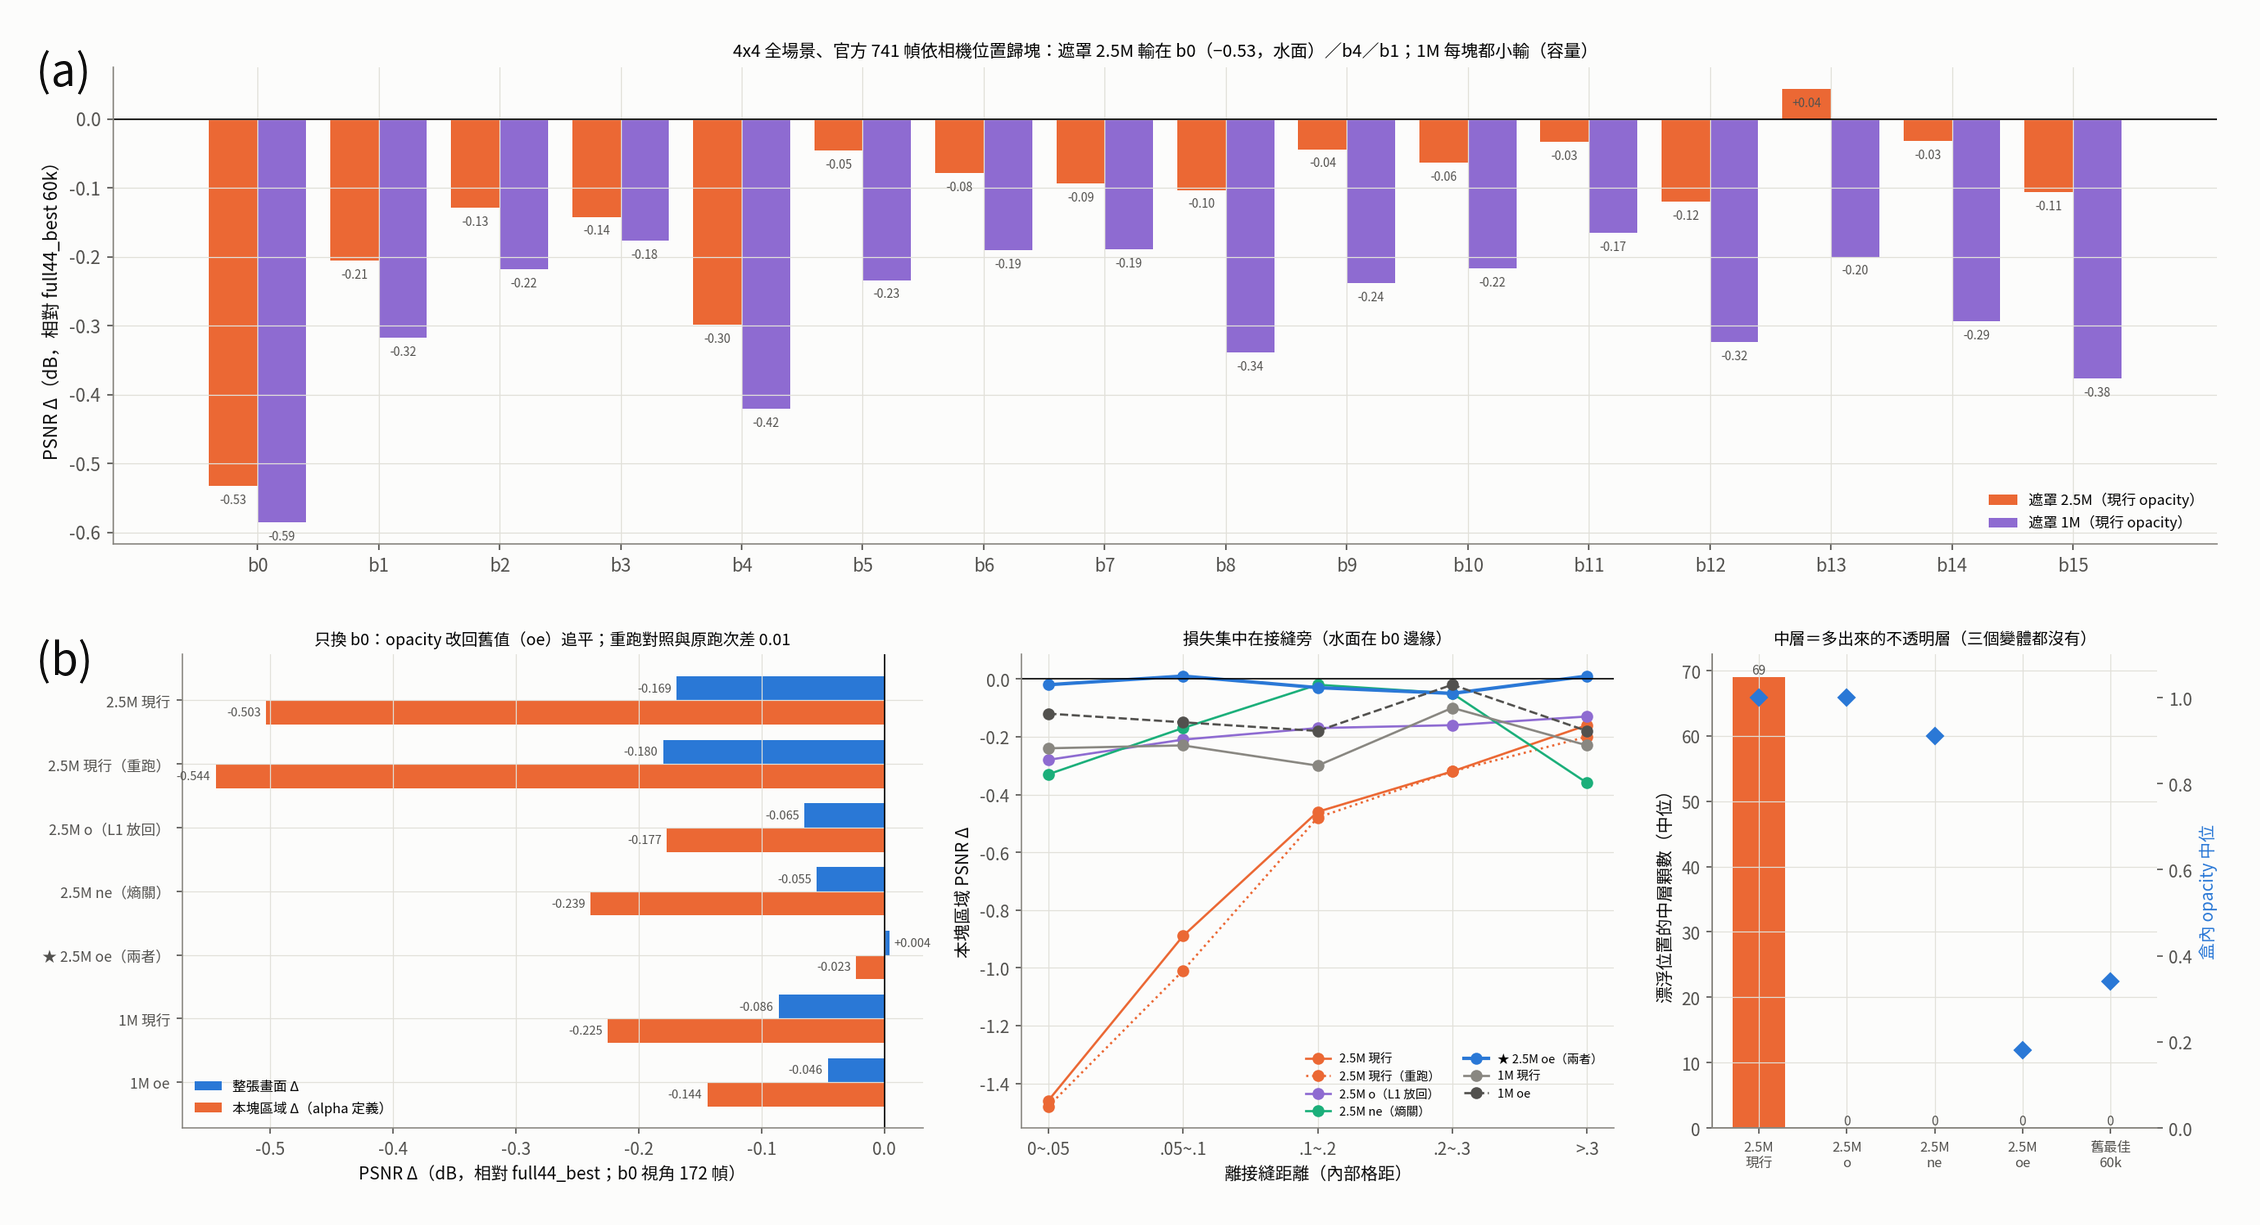
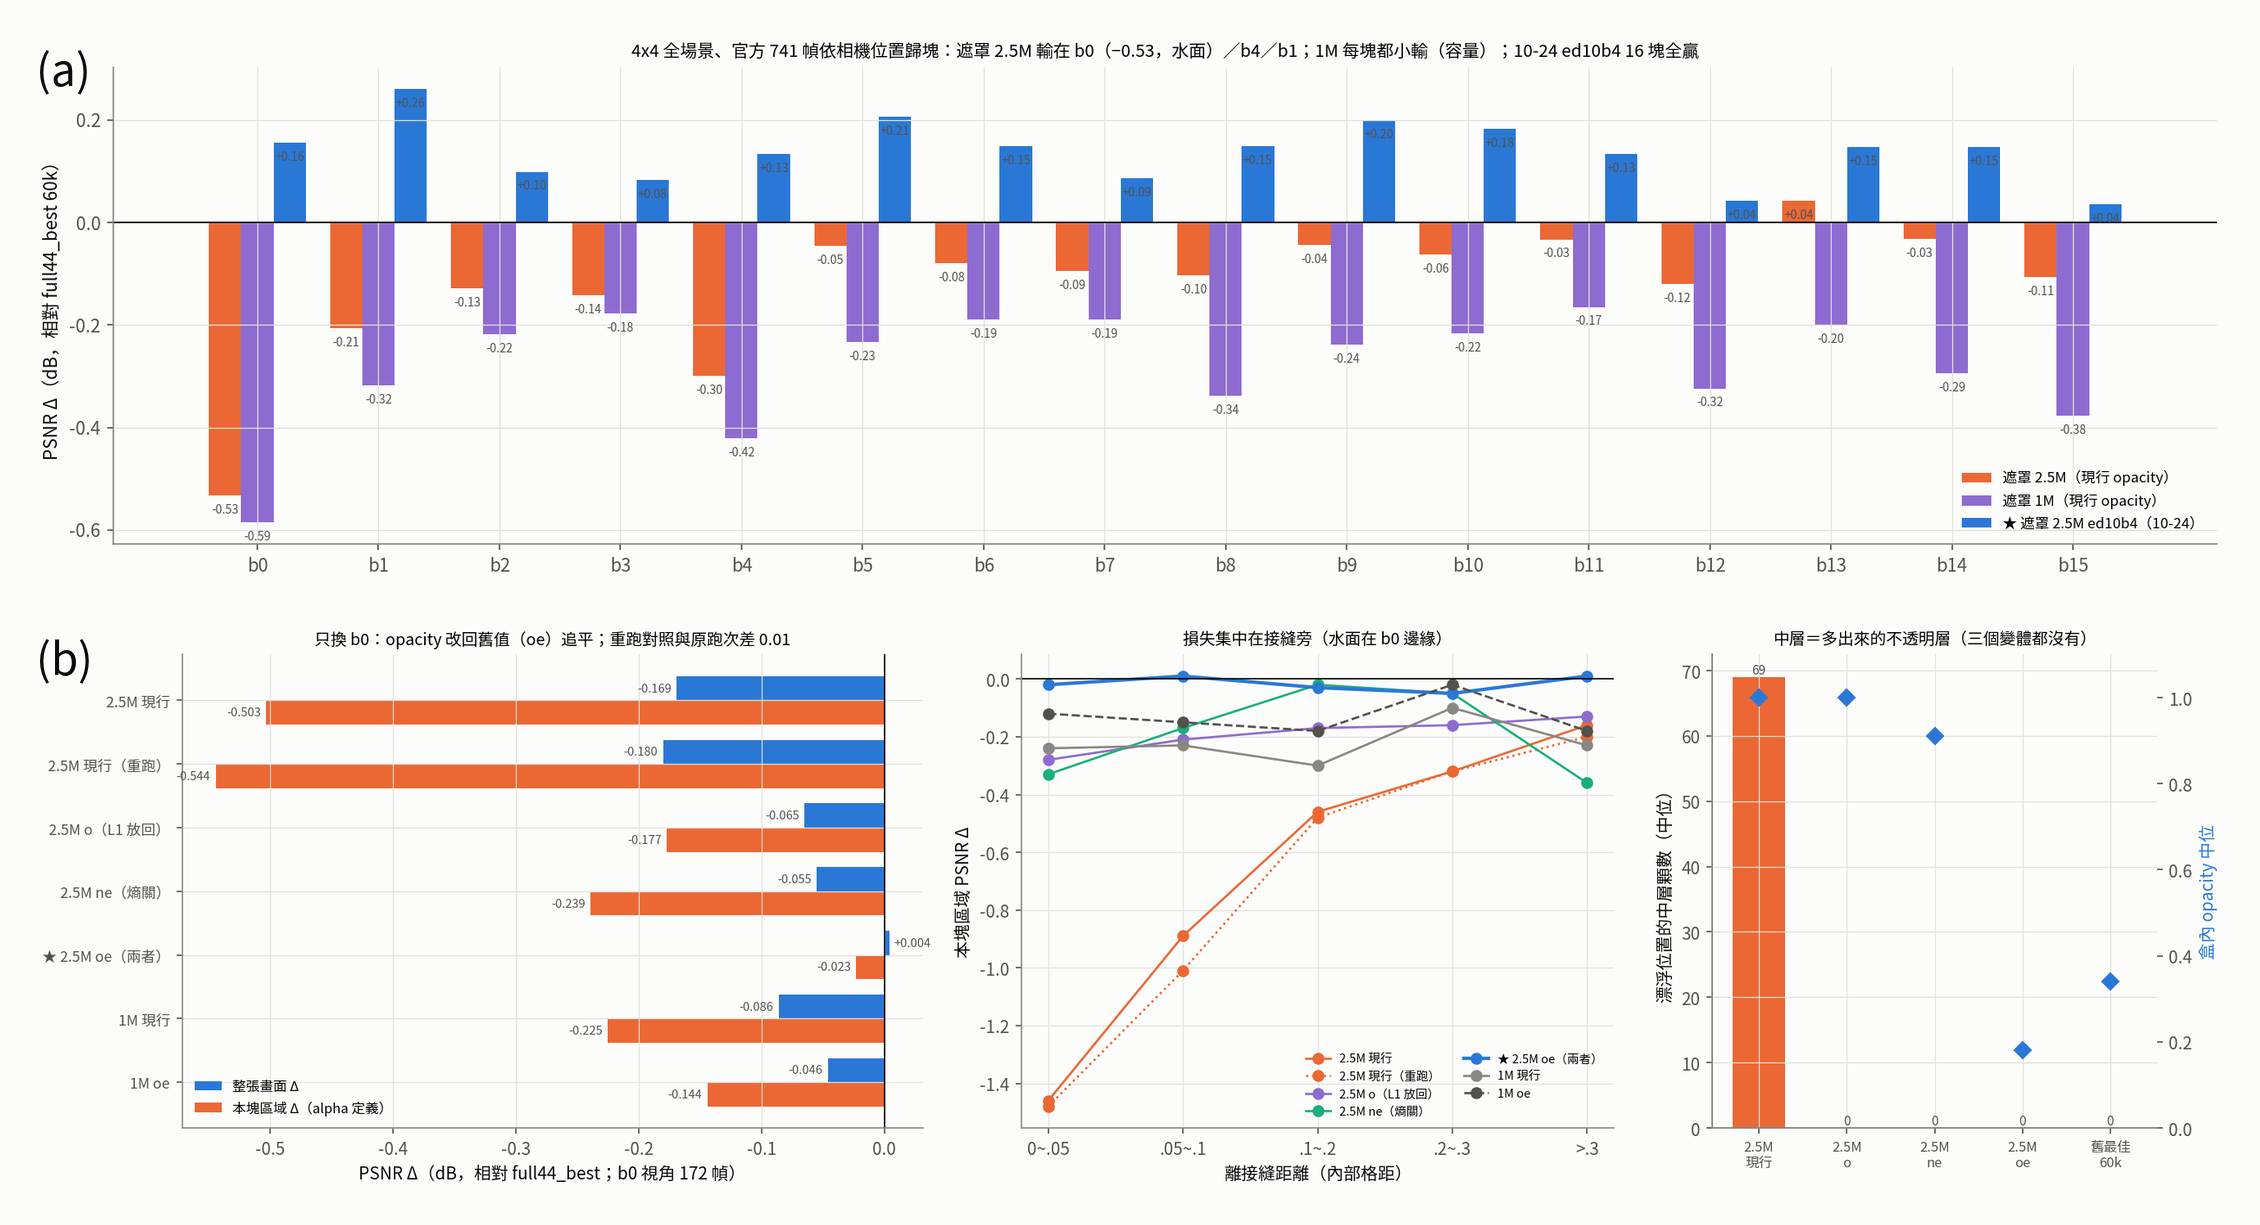
紀錄：ed10b4 全場景 27.868 勝舊最佳（16 塊全贏、7.32 h、參數全有限；實驗分析 20 §7＋逐塊圖）；加速第一輪結果（融合 SSIM −13% 採用、Morton −3.6%、DashGaussian a=4 −1.1 dB 不採用）與第二輪排程
Claude-Session: https://claude.ai/code/session_01ASvjmyPMC4F37W41o8s8Aq

Changed region(s): [[0.031, 0.062, 0.9602, 0.4343], [0.2788, 0.031, 0.7434, 0.062], [0.8673, 0.3722, 0.9912, 0.4343]]

diff --git a/tools/plot_analysis.py b/tools/plot_analysis.py
@@ -1393,7 +1393,9 @@ def n19_road(d):
 
 # 20：遮罩臂全場景回退（10-23）。逐塊＝官方 741 幀依相機位置歸塊（labrun/perblock_1023.py），Δ 相對 full44_best
 N20_BLK = {"遮罩 2.5M（現行 opacity）": [-0.533, -0.206, -0.129, -0.142, -0.299, -0.046, -0.079, -0.094, -0.103, -0.044, -0.063, -0.033, -0.120, +0.043, -0.032, -0.106],
-           "遮罩 1M（現行 opacity）": [-0.586, -0.318, -0.218, -0.177, -0.421, -0.234, -0.190, -0.189, -0.339, -0.238, -0.217, -0.165, -0.324, -0.200, -0.294, -0.377]}
+           "遮罩 1M（現行 opacity）": [-0.586, -0.318, -0.218, -0.177, -0.421, -0.234, -0.190, -0.189, -0.339, -0.238, -0.217, -0.165, -0.324, -0.200, -0.294, -0.377],
+           # 10-24 ed10b4 全場景（熵只往 0 推、10k 後切回雙向 ×4；labrun/perblock_1024.py）
+           "★ 遮罩 2.5M ed10b4（10-24）": [+0.156, +0.260, +0.099, +0.083, +0.134, +0.206, +0.149, +0.087, +0.149, +0.199, +0.183, +0.134, +0.043, +0.148, +0.148, +0.035]}
 # b0 換塊評測（logs/swap_b0_1023_1132.log、_1238.log；172 幀）：整張 Δ、本塊區域 Δ、幾何區域 Δ、接縫帶 Δ（0~.05、.05~.1、.1~.2、.2~.3、>.3）
 N20_SWAP = [("2.5M 現行", -0.169, -0.503, -0.676, [-1.46, -0.89, -0.46, -0.32, -0.16]),
             ("2.5M 現行（重跑）", -0.180, -0.544, -0.734, [-1.48, -1.01, -0.48, -0.32, -0.20]),
@@ -1415,7 +1417,7 @@ def n20_blocks(d):
     ax.axhline(0, color="k", lw=0.8)
     ax.set_xticks(x, [f"b{b}" for b in range(16)]); ax.set_ylabel("PSNR Δ（dB，相對 full44_best 60k）")
     ax.legend(fontsize=8, loc="lower right")
-    ax.set_title("4x4 全場景、官方 741 幀依相機位置歸塊：遮罩 2.5M 輸在 b0（−0.53，水面）／b4／b1；1M 每塊都小輸（容量）", fontsize=9.5)
+    ax.set_title("4x4 全場景、官方 741 幀依相機位置歸塊：遮罩 2.5M 輸在 b0（−0.53，水面）／b4／b1；1M 每塊都小輸（容量）；10-24 ed10b4 16 塊全贏", fontsize=9.5)
     save(fig, d, "n20_blocks.png")
 
 

diff --git a/紀錄/研究總覽.md b/紀錄/研究總覽.md
@@ -11,7 +11,18 @@
 
 **方向（使用者 10-16）**：近期不管本機 6GB，主軸是**輕量＋快**；與官方比只用原設定（不替雙方加補償）。
 
-### ★ 10-23 遮罩臂全場景：快 4.6 倍、分數低 0.21 => 留下來，在快的配方裡修漂浮層（`實驗分析/20`）
+### ★★ 10-24 ed10b4 全場景：品質與速度都勝舊最佳（`實驗分析/20` §7）
+```
+4x4 全場景、官方 741 幀          PSNR    SSIM    LPIPS   合併 N    FPS    16 塊純訓練
+★ ed10b4（遮罩＋dist＋30k 2.5M）  27.868  .8785   .1153   27.83M   40.2   7.32 h
+full44_best（10-05 舊配方 60k）   27.739  .8790   .1293   17.63M   35.6   ~30.7 h
+官方 release                     27.261  .8671   .1540   24.48M   21.9   —
+```
+- 臂 `best1maskdistrfed10b4`＝遮罩＋dist100＋30k＋融合 Adam＋累加式 trim＋**二元熵只往 0 推、STEPS/3 後切回雙向且權重 ×4**＋relocation NaN 修正。
+- **16 塊每一塊都贏舊最佳**（+0.04～+0.26；b0／b1／b4 由 −0.53／−0.21／−0.30 翻成 +0.16／+0.26／+0.13）；逐幀中位 +0.09、輸 >1 dB 69 → 19 幀；16 塊參數全有限。
+- 代價：部署 N 比舊最佳多 58%。加速第一輪（`加速論文對照.md`）：融合 SSIM b6／b0 −13%／−12%、品質不變 => 採用；第二輪組合在跑。
+
+### 10-23 遮罩臂全場景：快 4.6 倍、分數低 0.21 => 留下來，在快的配方裡修漂浮層（`實驗分析/20`）—— 已由上面的 ed10b4 解決
 ```
 4x4 全場景、官方 741 幀          PSNR    SSIM    LPIPS   合併 N    FPS    每塊訓練
 full44_best（10-05 舊配方 60k）  27.739  .8790   .1293   17.63M   35.6   ~1.9 h
@@ -25,7 +36,7 @@ full44_best（10-05 舊配方 60k）  27.739  .8790   .1293   17.63M   35.6   ~1
 - **保留速度的修法（10-23～24，b0 [solo]，`20` §6）**：二元熵**只往 0 推**、STEPS/3 後切回雙向且權重 0.002 → 0.008（臂 `best1maskdistrfed10b4`）
   b0 換塊 −0.008（現行 −0.169）、純訓練 +11%（1510 → 1679 s；oe +49%）、冗餘中層消失。冗餘層只在前 5k「往 1 推」時形成；時間與品質沿平滑前緣交換（`20` §6 結果三）。
 - **BUG（10-24 修）**：MCMC relocation 在父代 o 恰好 1.0 時 Eq. 9 float32 相消 => NaN scale（現行全場景 b1 15,234 顆，永不死）；10-24 之前的遮罩全場景都帶著（`程式碼稽核清單` §3）。
-- 10-24 起 lab：`best1maskdistrfed10b4` 4x4 全場景 2.5M（含 NaN 修正，16 塊 [solo] 約 8.3 h＋合併＋官方 741 幀）。
+- 10-24 lab：`best1maskdistrfed10b4` 4x4 全場景 2.5M 跑完 => 27.868（上一節）。
 
 ### 基底：best1（4x4、每塊 60k；`scripts/lab/task_cmp.sh <塊> best1`；組成與取捨 => `實驗分析/15`）
 ```
@@ -112,7 +123,7 @@ max Q(theta_S)   s.t.   (1/K) * sum_{i in S} c_i <= B(hardware)
 | RAM | uint8 影像快取＋不載未用深度：每視角 25.6 → 4.3 MB | `03` |
 | 加速（逐位元相同或平手） | conic 外接盒 Load −40%；lean −20.9%；record_reduce trim −35%；飽和跳過＋先加總 backward −30%；累加式 trim 60k −21%；融合 Adam 60k −17% | `04`、`10`、`15` |
 | lab 硬碟 | 1.8 TB；10-17 被中間 ckpt 寫滿 => 預設只存最終 ckpt | `方法論.md` §0 |
-| 加速文獻對照（10-24） | Taming／FastGS／Speedy-Splat／DashGaussian／Faster-GS 逐項對我方機制；已排融合 SSIM、DashGaussian 解析度排程；opacity 相依支撐量過只省 5～6%（二元熵讓 89～91% 顆 o>0.9） | `加速論文對照.md` |
+| 加速文獻對照（10-24） | Taming／FastGS／Speedy-Splat／DashGaussian／Faster-GS 逐項對我方機制；**融合 SSIM −13%（採用）**、Morton −3.6%、DashGaussian a=4 −18% 但 −1.1 dB（不採用）；opacity 相依支撐量過只省 5～6% | `加速論文對照.md` |
 
 政策（使用者 10-04）：lab **不鎖 VRAM、看峰值**；訓練**預設 [solo]**；階段最優解拉回本機（原生 6GB）驗證。
 
@@ -165,8 +176,7 @@ val ⊂ train                           單塊、整張畫面 => 大半是塊外
 
 ## §9 待辦與決策（2026-10-24）
 
-**lab 佇列（10-24 自動作業，使用者授意「假設→驗證→成功就安排訓練」）**：`best1maskdistrfed10b4`（遮罩＋dist100＋30k＋融合 Adam＋累加式 trim＋**二元熵只往 0 推、10k 後切回雙向×4**＋relocation NaN 修正）
-4x4 全場景 cap 2.5M（10-23 21:4x UTC 起，約 9 h）；判準＝官方 741 幀相對現行遮罩臂 27.533 與舊最佳 27.739、逐塊看 b0／b1／b4、每塊純訓練與 FPS（`實驗分析/20` §6）。
+**（已完成）10-24 自動作業**：`best1maskdistrfed10b4` 4x4 全場景 cap 2.5M => **27.868／.8785／.1153，16 塊全勝舊最佳，7.32 h**（`實驗分析/20` §7）。
 （oe 全場景已撤下：[solo] 訓練 +49%。）
 
 **加速文獻對照（使用者 10-24：整理成文檔、加幾個省時間不掉品質的、lab 空了就再試）** => `加速論文對照.md`（A～E 每項：論文算式／我方對應機制與算式／嫁接判斷）。
@@ -175,11 +185,13 @@ val ⊂ train                           單塊、整張畫面 => 大半是塊外
 - DashGaussian 解析度排程 a=4（由我方影像頻譜算出：1/6→1/2，71% 起全解析度，平均像素 0.378）± 位置 lr 保持到全解析度（新加 `hold_steps`；與 MCMC 加噪耦合）
 - 補記：舊 `bestres`（60k）當年以終模 Load 關閉，但它省的是訓練時間：b6 81.9 → 70.4 分（−14%）、換塊 −0.04／−0.09。
 延後：AccuTile（先離線量）、逐顆平行 backward／SH 分開存放／Adam 融進 backward（改 CUDA，先問）、Morton 重排與 SH 降頻（第二輪）。
+**第一輪結果（b6；`加速論文對照.md` §0／§F）**：融合 SSIM −13.0%（b0 −12.3%）品質不變 => **採用**；Morton −3.6% 品質不變；DashGaussian a=4 −18% 但本塊區域 −1.1 dB => 不採用（推測：增生期全在 ≤1/3 解析度）。
+**第二輪（lab 佇列）**：融合 SSIM＋Morton（b6／b0）、＋高階 SH 每 16 步才走 Adam（新 `FusedAdam.sh_rest_interval`；b6／b0）、＋解析度 a=2＋lr 保持（b6）、兩次換塊評測。定案後最終配方再跑一次全場景。
 
 **（已完成）10-22 佇列**：遮罩＋dist100＋30k＋融合 Adam＋累加式 trim（臂 `best1maskdistrf`）的 **4x4 全場景 × cap 2.5M／1M**（各 16 塊＋merge＋官方 741 幀；`task_fullscene.sh maskplan` 先補 14 塊遮罩與逐塊 dup）；b6／b12 同時就是「加兩個加速後品質是否不變」的驗證（對照全因子 `g44s30km{25,10}_best1maskdist100`）；之後是兩個全因子贏家的 test 圖＋全套診斷。
 
 **等使用者決定**
-- 新基底：遮罩＋dist100＋30k 配 **cap 2.5M（品質；部署比官方大）或 1M（輕量；部署約官方的 0.6~0.8）**（`19`）—— 2.5M 全場景 27.533（6.7 h、43 FPS）＝快很多、分數低一點，可以當快的基底；漂浮層在 b0 試保留速度的修法（`20` §6），贏了才排全場景。
+- 新基底：遮罩＋dist100＋30k 配 **cap 2.5M（品質；部署比官方大）或 1M（輕量；部署約官方的 0.6~0.8）**（`19`）—— 2.5M＋ed10b4 全場景 27.868 已勝舊最佳（`20` §7）；**1M 版的 ed10b4 要不要跑全場景**（10-22 的 1M 遮罩臂 27.403，主因是容量）待使用者決定。
 - 之後：test 圖目視 → 全場景（使用者 10-18：細節定案後才跑）。
 
 **lab 共用卡（10-20）**：容器外行程佔卡 22 GB 期間 runner 已改成 [solo] 先等卡空；燒掉的 10 格 dist 臂＋30k 換塊評測已插回佇列最前面。

diff --git a/紀錄/現行方案與公式.md b/紀錄/現行方案與公式.md
@@ -5,7 +5,7 @@ id: R-formula
 摘要: 命題的完整公式推導、實作對照表，以及 §6 出處與貢獻歸屬（寫論文的 contribution statement 直接用這一節）。
 依賴: [S1-thesis]
 時間: 2026-07-28 ~ 2026-08
-最後更新: 2026-10-22（由 tools/stamp_records.py 從 git 產生，勿手改）
+最後更新: 2026-10-24（由 tools/stamp_records.py 從 git 產生，勿手改）
 ---
 
 > ✅ **2026-09-13 重驗：搬回主線。** §5「現行未驗與已知歧異」要對照 研究總覽 §1 重讀 —— 其中部分已在 2026-09-13 被量測回答（rho(v,c)、SSIM 的足跡反比計價）。內含分數需重測。

diff --git a/紀錄/論文總覽.md b/紀錄/論文總覽.md
@@ -5,7 +5,7 @@ id: R-papers-all
 摘要: 參考論文/ 全部 46 篇的算法／理念摘要，逐篇對照我方是否採用、是否驗過、結果。驗過的同步進 研究總覽.md §9。
 依賴: [R-papers（論文核對表.md，逐篇實作 vs 原文的細節）, S9-papers（研究總覽 §9 索引）]
 時間: 2026-10-02
-最後更新: 2026-10-22（由 tools/stamp_records.py 從 git 產生，勿手改）
+最後更新: 2026-10-24（由 tools/stamp_records.py 從 git 產生，勿手改）
 ---
 
 # 參考論文總覽（46 篇，2026-10-02）

diff --git a/紀錄/README.md b/紀錄/README.md
@@ -1,5 +1,5 @@
 # 紀錄／單一入口
-最後更新: 2026-10-22（由 tools/stamp_records.py 從 git 產生，勿手改）
+最後更新: 2026-10-24（由 tools/stamp_records.py 從 git 產生，勿手改）
 
 **讀的順序：本檔（找路）→ `研究總覽.md` §0（一頁現況）→ 需要數字時看 `實驗分析/` 的對應文件＋同名圖。**
 有衝突一律以 `研究總覽.md` 為準。2026-10-19 整理：總覽只留現行有效的內容，過程紀錄與廢案在 `new_archived/`。

diff --git a/紀錄/完整指令手冊.md b/紀錄/完整指令手冊.md
@@ -1,5 +1,5 @@
 # 完整指令手冊
-最後更新: 2026-10-22（由 tools/stamp_records.py 從 git 產生，勿手改）
+最後更新: 2026-10-24（由 tools/stamp_records.py 從 git 產生，勿手改）
 
 > 場景：MatrixCity aerial　訓練：一律在 lab（RTX 3090，**不鎖 VRAM、看峰值、預設 [solo]**，使用者 10-04）；本機 RTX 4050 6GB 只做 CPU 分析與最終 6GB 驗證。
 >
